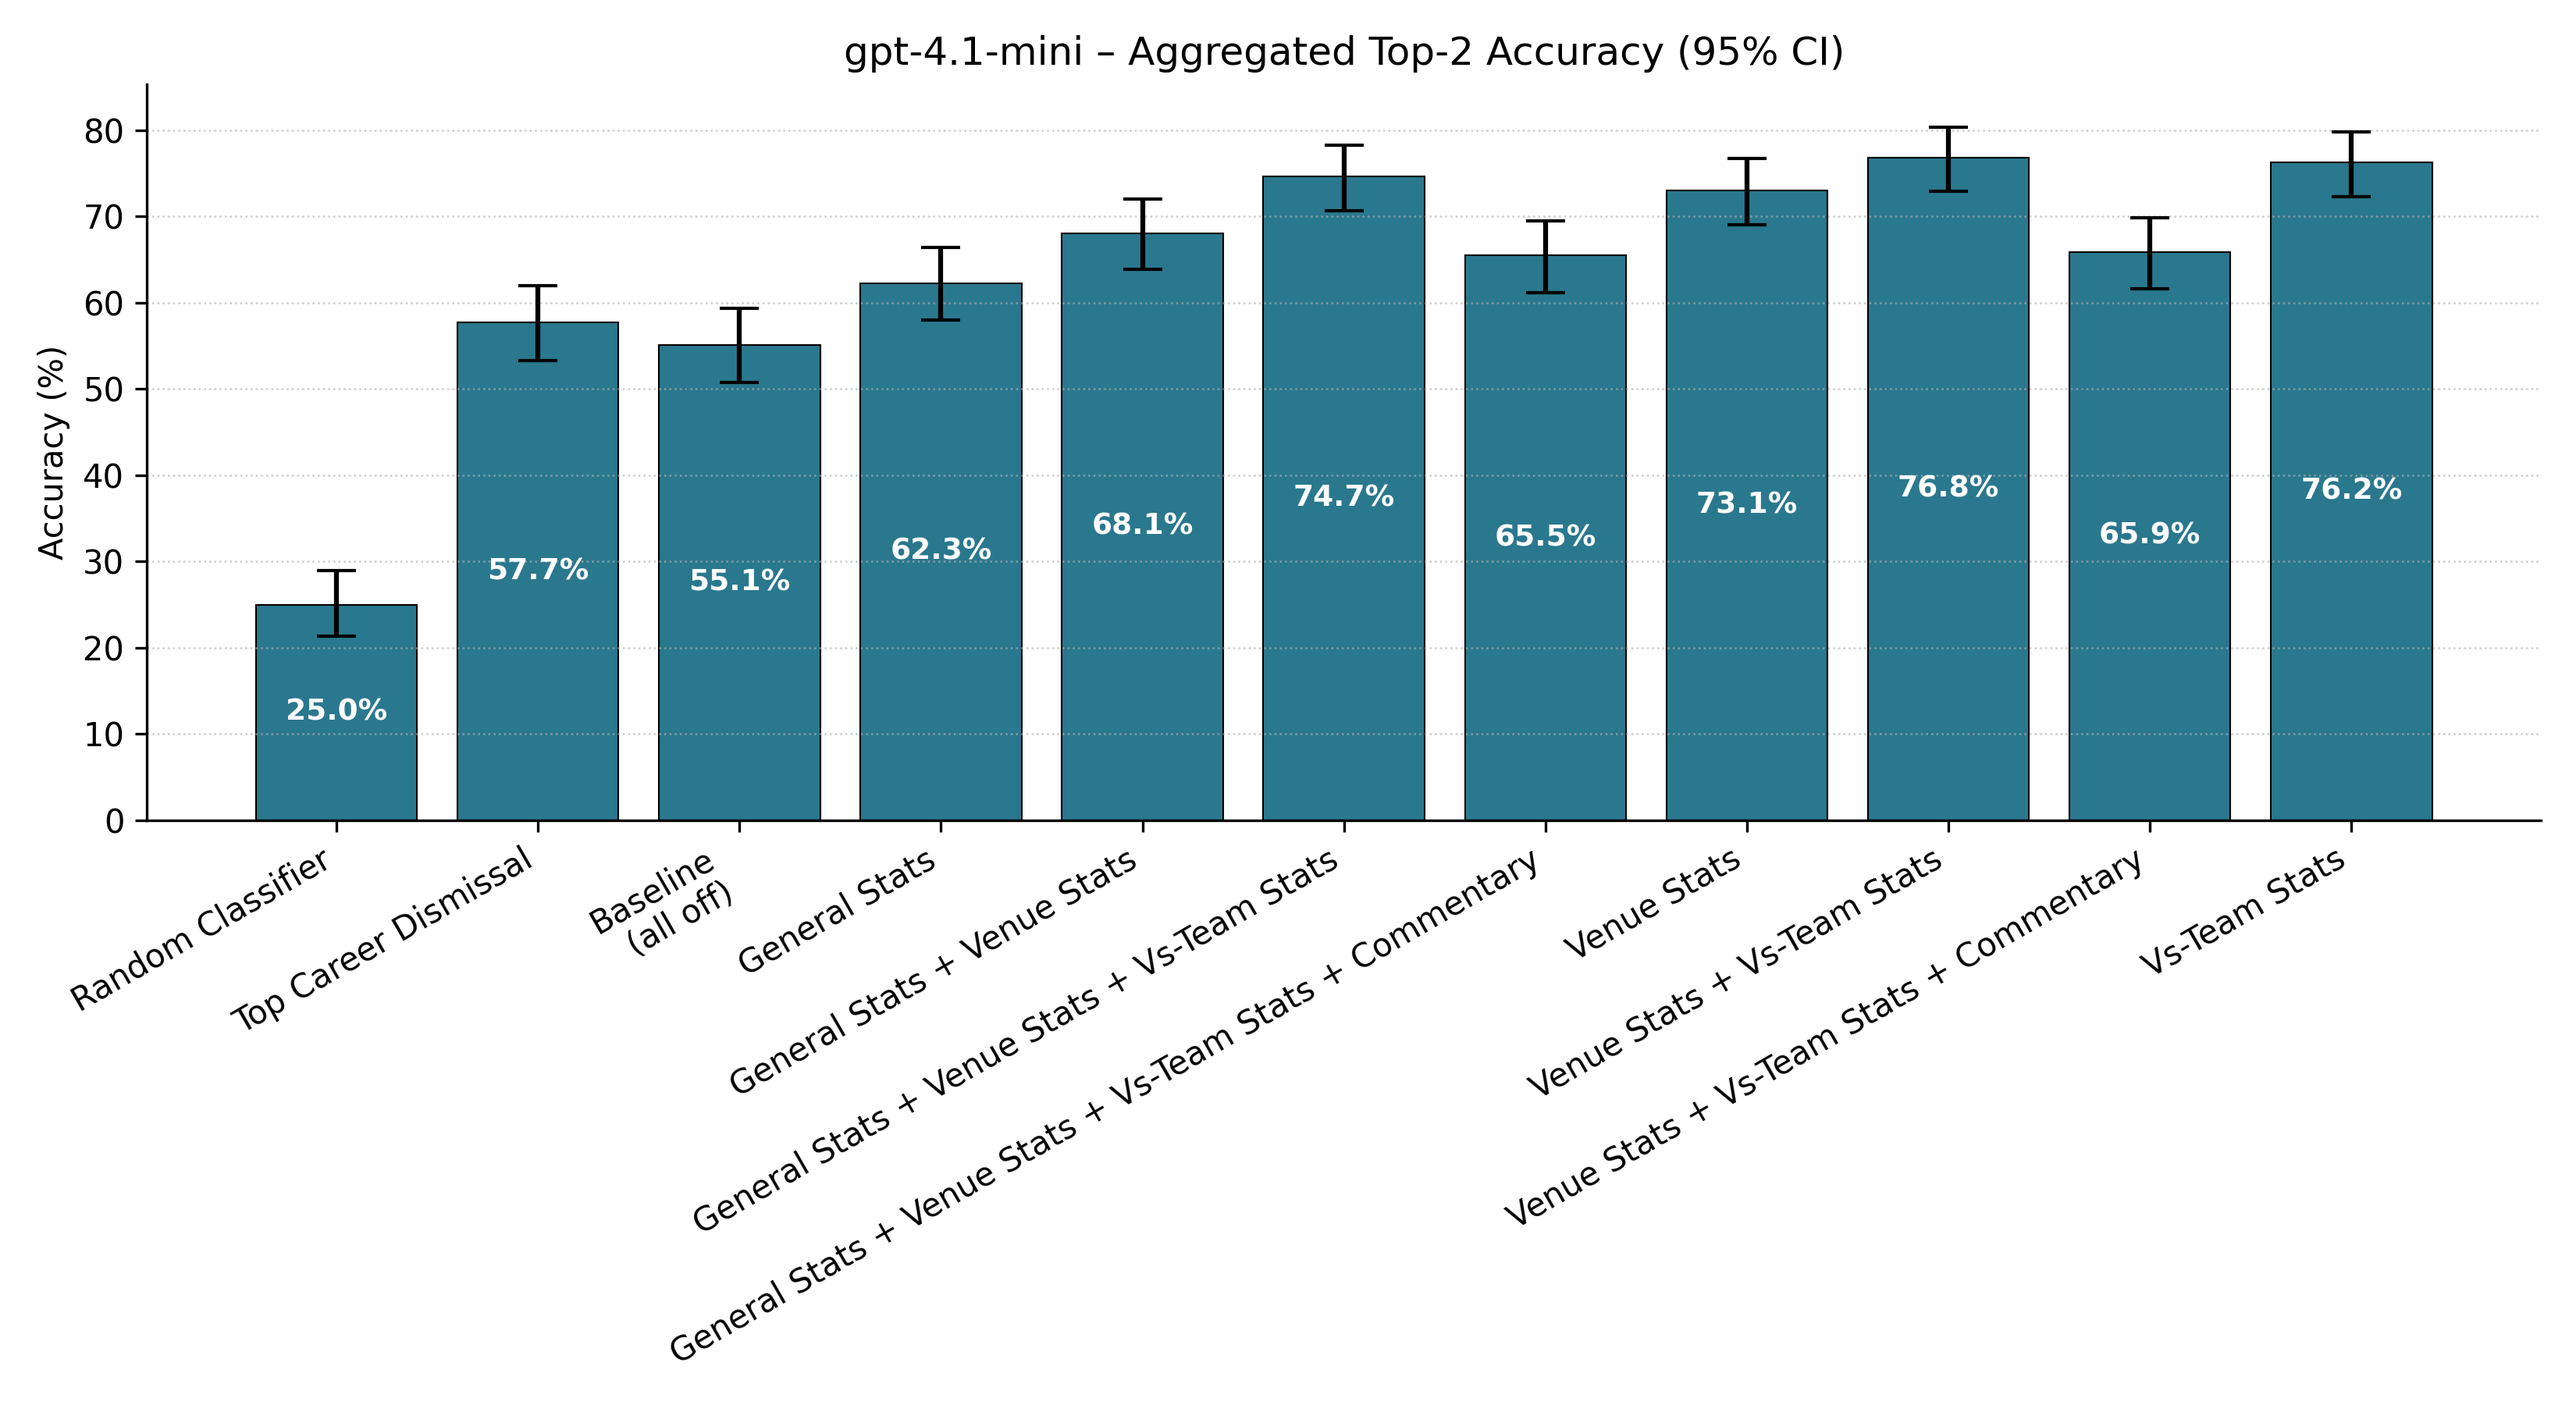
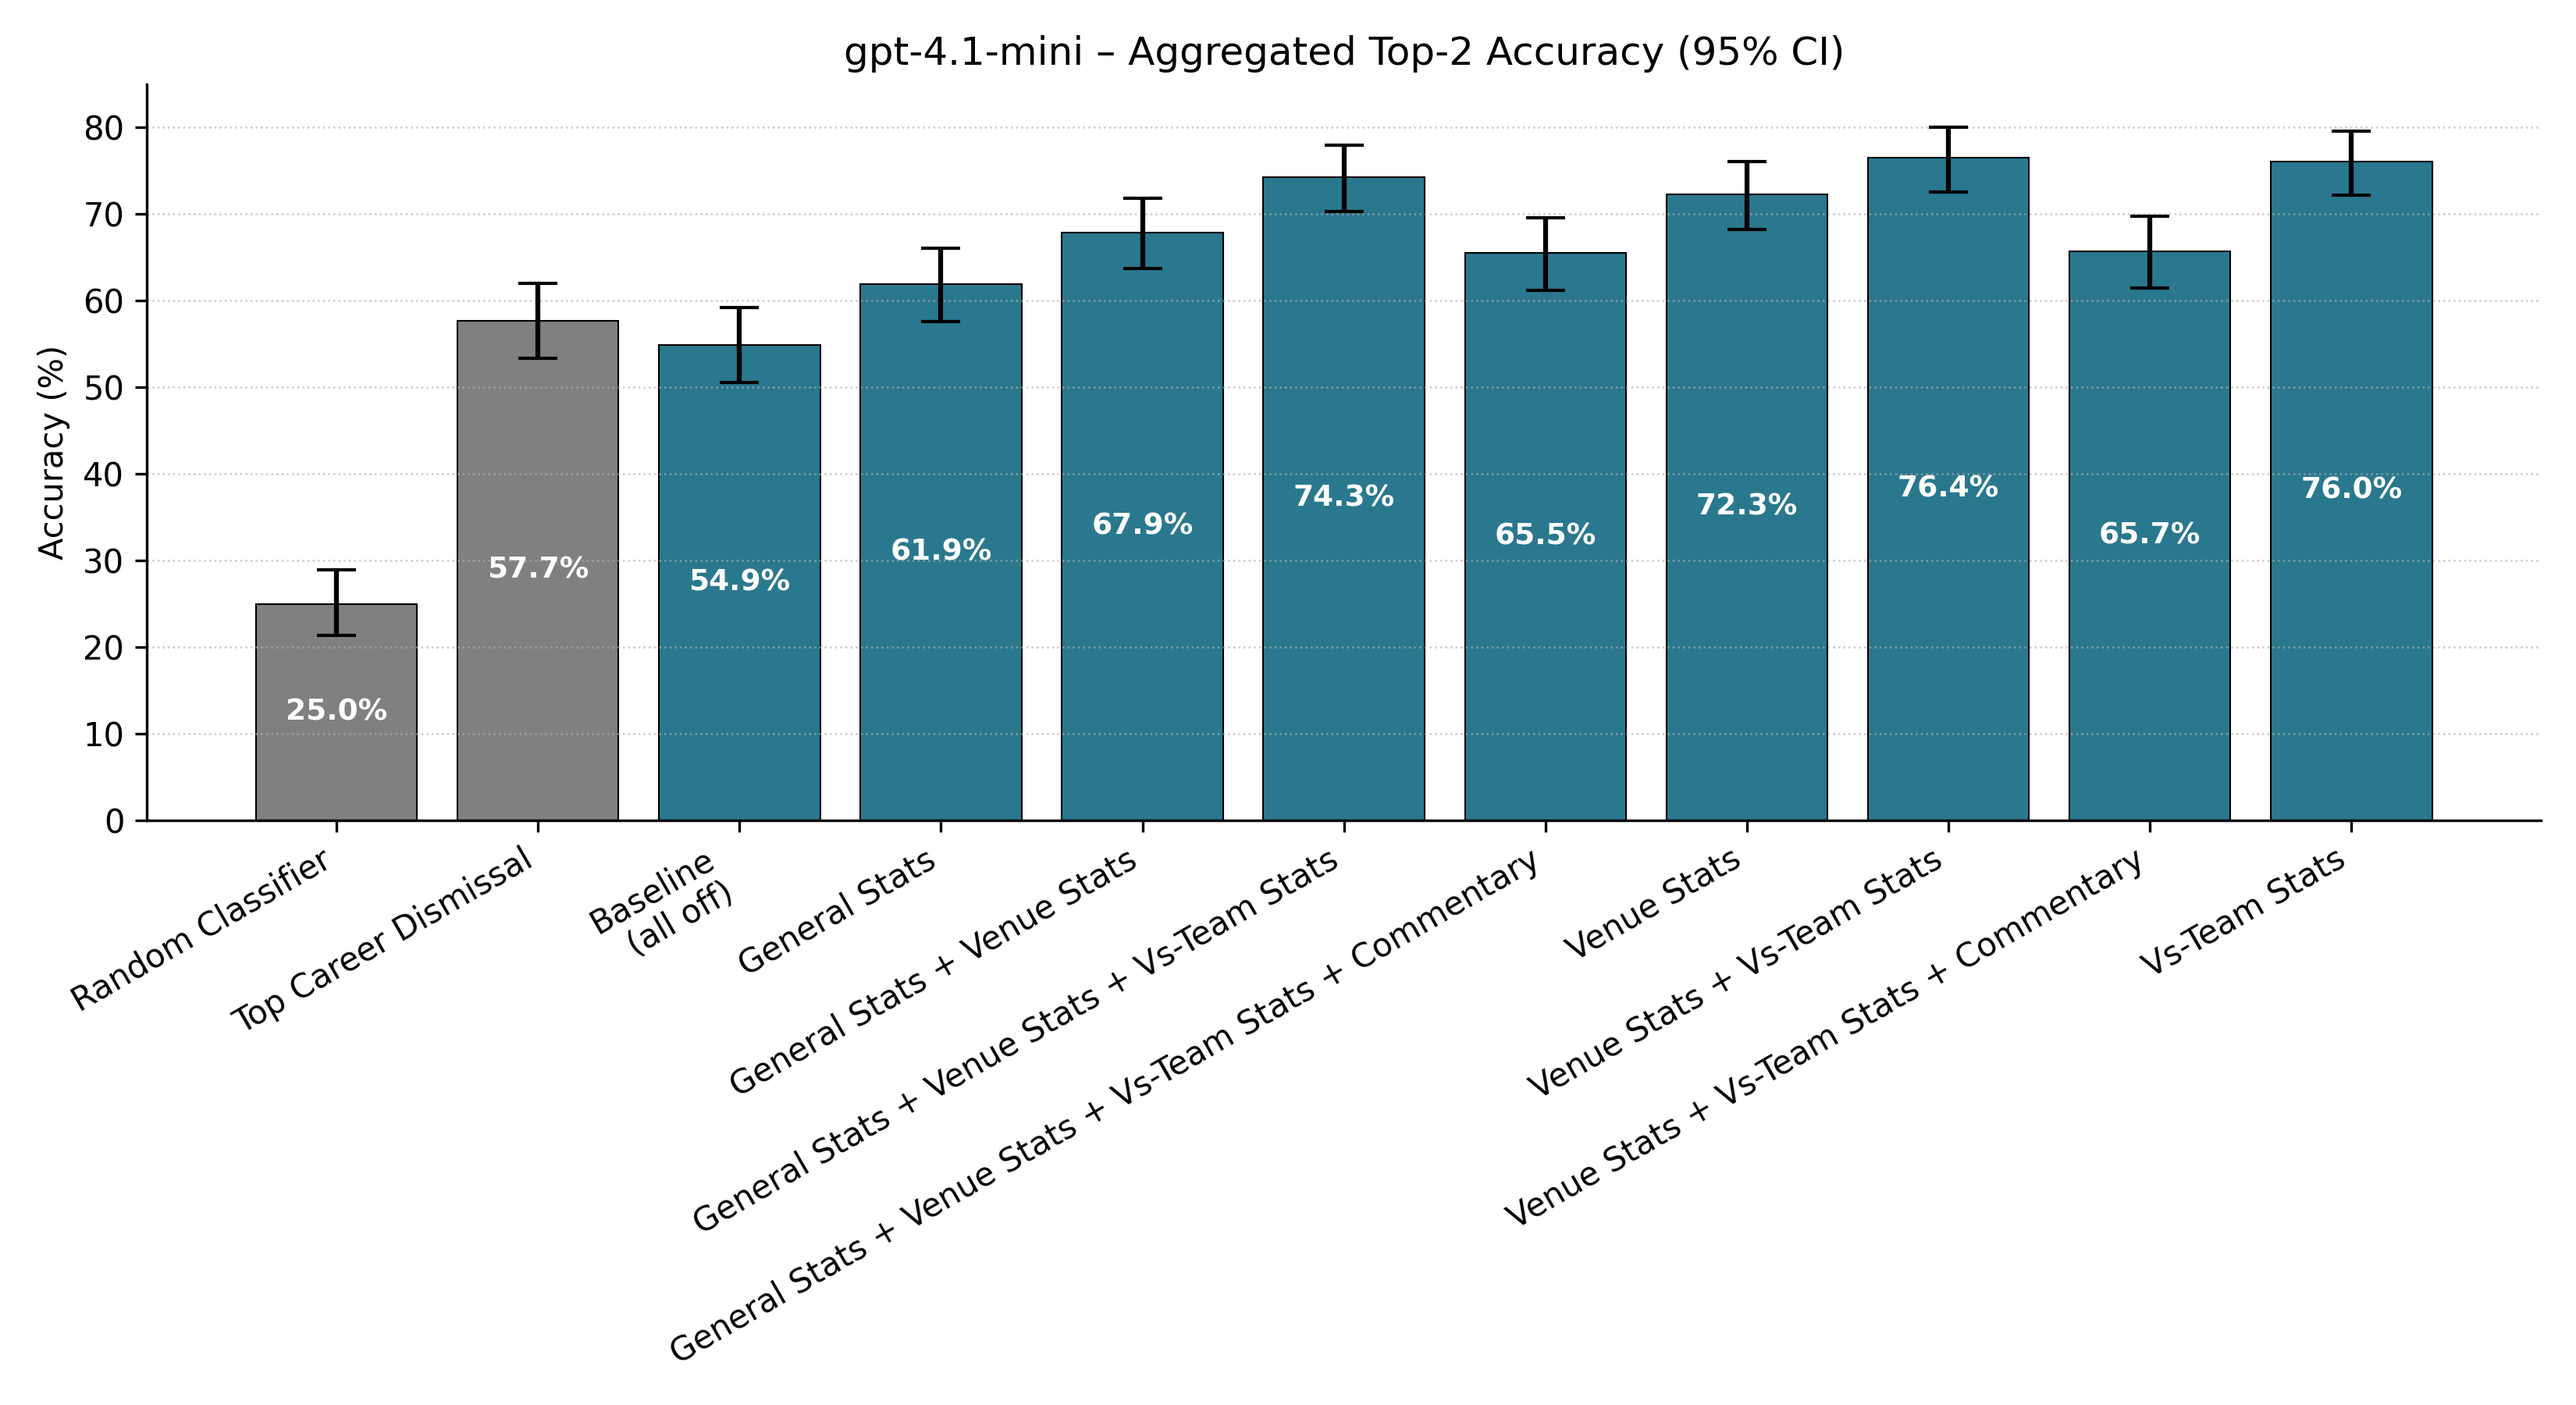
all done, paper submitted

diff --git a/main.tex b/main.tex
@@ -160,12 +160,10 @@ Ball-by-ball commentary offers real-time match descriptions and player behavior 
 \subsection{Ablation Study Design}
 To systematically evaluate the contribution of different contextual inputs to prediction accuracy, we designed an ablation study that progressively introduces information sources while maintaining strict experimental controls. Our methodology evaluates nine distinct contextual input combinations across four LLM variants, resulting in 36 total configurations.
 
-Our experimental approach follows a structured methodology that isolates the contribution of each information source. We start with a baseline configuration, where the LLM receives only basic match and player identification data, relying solely on its pre-trained knowledge. Then, we progressively add general career statistics, followed by venue-specific performance data, opponent-specific statistics, and, finally, textual commentary. This incremental progression allows us to precisely attribute accuracy improvements to specific contextual inputs. Throughout the experiment, players' identities and evaluation protocols remain constant across all configurations, ensuring that any observed effects can be attributed solely to the contextual inputs.
+Our experimental approach follows a structured methodology that isolates the contribution of each input. We start with a baseline configuration, where the LLM receives only basic match and player identification data, relying solely on its pre-trained knowledge. Then, we progressively add general career statistics, followed by venue-specific performance data, opponent-specific statistics, and, finally, textual commentary. This incremental progression allows us to precisely attribute accuracy improvements to specific contextual inputs. Throughout the experiment, players' identities and evaluation protocols remain constant across all configurations, ensuring that any observed effects can be attributed solely to the contextual inputs.
+Reproducibility is a key aspect of our methodology, implemented through an automated experimental framework that ensures identical prompt structures, response parsing protocols, and evaluation metrics across all experimental conditions, eliminating potential sources of systematic bias.
 
-Reproducibility represents a key aspect of our methodology, implemented through a comprehensive automated experimental framework.
-Our automated system ensures identical prompt structures, response parsing protocols, and evaluation metrics across all experimental conditions, eliminating potential sources of systematic bias.
-
-Figure~\ref{fig:o4mini-ablation-configs} illustrates the complete spectrum of contextual input configurations evaluated in our ablation study, using o4-mini as an exemplar. The systematic progression demonstrates the methodological rigor underlying our approach: Random Classifier randomly selects one of eight dismissal modes with equal probability; Top Career Dismissal always predicts the most frequent dismissal type from a player's historical record; Baseline (All Off) provides the LLM with only basic match context and player identification, relying entirely on pre-trained knowledge; General Stats adds comprehensive career statistics including batting averages and dismissal patterns; General Stats + Venue Stats incorporates ground-specific performance history; General Stats + Venue Stats + Vs-Team Stats adds opponent-specific matchup data; Venue Stats + Vs-Team Stats combines venue and opponent contexts without general statistics; and configurations with Commentary integrate ball-by-ball textual descriptions. This comprehensive evaluation framework enables precise attribution of accuracy improvements to specific contextual inputs while maintaining experimental rigor.
+Figure~\ref{fig:o4mini-ablation-configs} illustrates the complete spectrum of contextual input configurations evaluated in our ablation study, using o4-mini as an exemplar. The systematic progression demonstrates the methodological rigor underlying our approach: Random Classifier randomly selects one of eight dismissal modes with equal probability; Top Career Dismissal always predicts the most frequent dismissal type from a player's historical record; Baseline (\emph{all off}) provides the LLM with only basic match context and player identification, relying entirely on pre-trained knowledge; General Stats adds comprehensive career statistics including batting averages and dismissal patterns; General Stats + Venue Stats incorporates ground-specific performance history; General Stats + Venue Stats + Vs-Team Stats adds opponent-specific matchup data; Venue Stats + Vs-Team Stats combines venue and opponent contexts without general statistics; and configurations with Commentary integrate ball-by-ball textual descriptions. This comprehensive evaluation framework enables precise attribution of accuracy improvements to specific contextual inputs while maintaining experimental rigor.
 
 \begin{figure}[htbp]
   \centering
@@ -185,7 +183,7 @@ Figure~\ref{fig:o4mini-ablation-configs} illustrates the complete spectrum of co
     \label{fig:o4mini-config-top2}
   \end{subfigure}
 
-  \caption{Comprehensive ablation study configurations for o4-mini model, showcasing the systematic evaluation of contextual inputs from a random classifier through progressive context enhancement. Error bars show 95\% confidence intervals.}
+  \caption{Ablation study configurations for o4-mini model, showcasing the systematic evaluation of contextual inputs from a random classifier through progressive context enhancement. Error bars show 95\% confidence intervals.}
   \label{fig:o4mini-ablation-configs}
 \end{figure}
 

diff --git a/llm/plot_aggregate_by_model.py b/llm/plot_aggregate_by_model.py
@@ -98,7 +98,7 @@ for model in models:
         "top1_successes": round(true_n * 0.125),
         "top2_successes": round(true_n * 0.25),
     }
-    row_random["top1_acc"] = row_random["top1_successes"] / row_random["n"] * 100
+    row_random["top1_acc"] = 12.5
     row_random["top2_acc"] = row_random["top2_successes"] / row_random["n"] * 100
 
     row_true = {
@@ -154,8 +154,12 @@ for model in models:
     def plot_bar(summary, col, err_low, err_high, title, fname):
         fig, ax = plt.subplots(figsize=(11, 6), dpi=150)
         ax.set_xticks(range(len(summary["block"])))
+        
+        # Set colors: grey for first two bars (Random Classifier and Top Career Dismissal), teal for others
+        colors = ["#808080" if i < 2 else "#2A788E" for i in range(len(summary["block"]))]
+        
         bars = ax.bar(summary["block"], summary[col], yerr=[err_low, err_high],
-                      capsize=6, ecolor="black", color="#2A788E", edgecolor="black", linewidth=0.5)
+                      capsize=6, ecolor="black", color=colors, edgecolor="black", linewidth=0.5)
 
         for i, bar in enumerate(bars):
             height = bar.get_height()

diff --git a/llm/plot_aggregate_by_player.py b/llm/plot_aggregate_by_player.py
@@ -108,7 +108,7 @@ for player in players:
         "top1_successes": round(true_n * 0.125),
         "top2_successes": round(true_n * 0.25),
     }
-    row_random["top1_acc"] = row_random["top1_successes"] / row_random["n"] * 100
+    row_random["top1_acc"] = 12.5
     row_random["top2_acc"] = row_random["top2_successes"] / row_random["n"] * 100
 
     row_true = {
@@ -189,13 +189,13 @@ for player in players:
 
     plot_bar(
         summary, "top1_acc", err_below_1, err_above_1,
-        f"{player} – Aggregated Top‑1 Accuracy (95% CI)",
+        f"{player} – Top‑1 Accuracy (95% CI)",
         os.path.join(out_dir, f"{player}_top1_accuracy.png")
     )
 
     plot_bar(
         summary, "top2_acc", err_below_2, err_above_2,
-        f"{player} – Aggregated Top‑2 Accuracy (95% CI)",
+        f"{player} – Top‑2 Accuracy (95% CI)",
         os.path.join(out_dir, f"{player}_top2_accuracy.png")
     )
 
